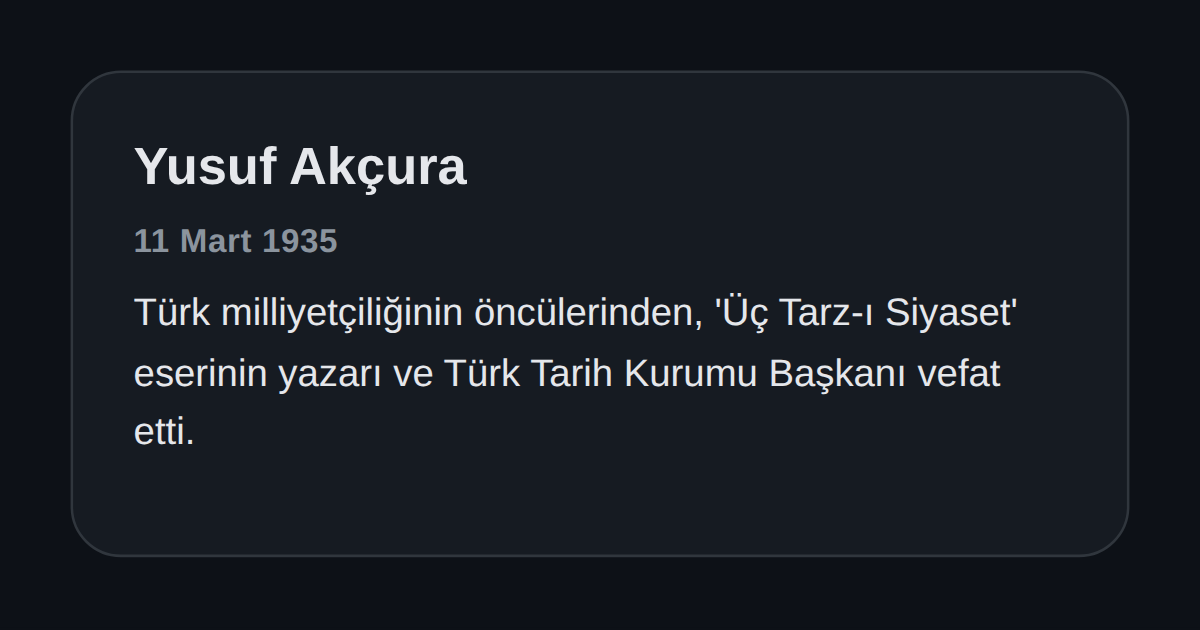
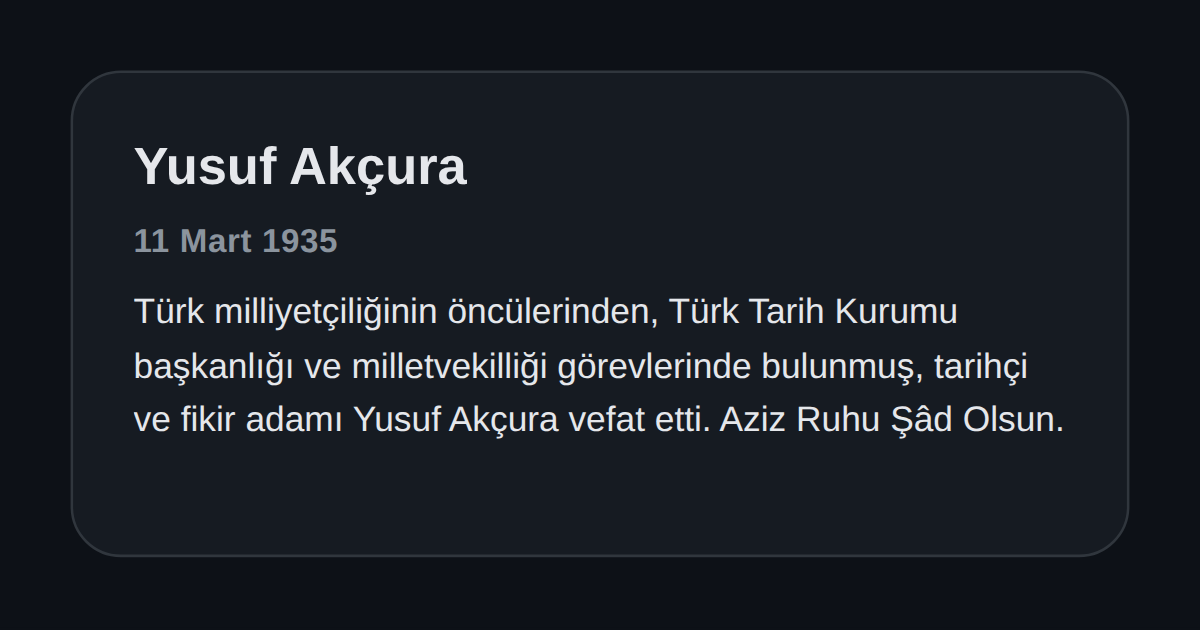
Generate milli takvim share files

Changed region(s): [[0.0925, 0.4524, 0.8942, 0.7238]]

diff --git a/blog/docs/milli-takvim/paylas/01-30-2016-sehit-selcuk-paker.html b/blog/docs/milli-takvim/paylas/01-30-2016-sehit-selcuk-paker.html
@@ -3,30 +3,30 @@
 <head>
 <meta charset="UTF-8">
 <meta name="viewport" content="width=device-width, initial-scale=1.0">
-<title>Şehit Uzman Çavuş Selçuk Paker (30 Ocak 2016) | Milli Takvim</title>
+<title>Şehit Selçuk Paker (30 Ocak 2016) | Milli Takvim</title>
 <meta name="description" content="Diyarbakır&#39;ın Sur ilçesinde bölücü terör örgütü PKK&#39;ya yönelik yürütülen operasyon sırasında çıkan çatışmada şehit düşen kahraman Bordo Bereli askerimiz Jandarma Uzman Çavuş Selçuk Paker. Aziz Ruhu…">
-<link rel="canonical" href="https://w01ki3.github.io/blog/docs/milli-takvim/paylas/01-30-2016-sehit-uzman-cavus-selcuk-paker.html">
+<link rel="canonical" href="https://w01ki3.github.io/blog/docs/milli-takvim/paylas/01-30-2016-sehit-selcuk-paker.html">
 <meta property="og:type" content="article">
 <meta property="og:site_name" content="Milli Takvim">
 <meta property="og:locale" content="tr_TR">
-<meta property="og:title" content="Şehit Uzman Çavuş Selçuk Paker (30 Ocak 2016)">
+<meta property="og:title" content="Şehit Selçuk Paker (30 Ocak 2016)">
 <meta property="og:description" content="Diyarbakır&#39;ın Sur ilçesinde bölücü terör örgütü PKK&#39;ya yönelik yürütülen operasyon sırasında çıkan çatışmada şehit düşen kahraman Bordo Bereli askerimiz Jandarma Uzman Çavuş Selçuk Paker. Aziz Ruhu…">
-<meta property="og:url" content="https://w01ki3.github.io/blog/docs/milli-takvim/paylas/01-30-2016-sehit-uzman-cavus-selcuk-paker.html">
-<meta property="og:image" content="https://w01ki3.github.io/blog/docs/milli-takvim/paylas/01-30-2016-sehit-uzman-cavus-selcuk-paker.png">
+<meta property="og:url" content="https://w01ki3.github.io/blog/docs/milli-takvim/paylas/01-30-2016-sehit-selcuk-paker.html">
+<meta property="og:image" content="https://w01ki3.github.io/blog/docs/milli-takvim/paylas/01-30-2016-sehit-selcuk-paker.png">
 <meta property="og:image:type" content="image/png">
 <meta property="og:image:width" content="1200">
 <meta property="og:image:height" content="628">
-<meta property="og:image:alt" content="Şehit Uzman Çavuş Selçuk Paker (30 Ocak 2016)">
+<meta property="og:image:alt" content="Şehit Selçuk Paker (30 Ocak 2016)">
 <meta name="twitter:card" content="summary_large_image">
-<meta name="twitter:title" content="Şehit Uzman Çavuş Selçuk Paker (30 Ocak 2016)">
+<meta name="twitter:title" content="Şehit Selçuk Paker (30 Ocak 2016)">
 <meta name="twitter:description" content="Diyarbakır&#39;ın Sur ilçesinde bölücü terör örgütü PKK&#39;ya yönelik yürütülen operasyon sırasında çıkan çatışmada şehit düşen kahraman Bordo Bereli askerimiz Jandarma Uzman Çavuş Selçuk Paker. Aziz Ruhu…">
-<meta name="twitter:image" content="https://w01ki3.github.io/blog/docs/milli-takvim/paylas/01-30-2016-sehit-uzman-cavus-selcuk-paker.png">
-<meta name="twitter:image:alt" content="Şehit Uzman Çavuş Selçuk Paker (30 Ocak 2016)">
+<meta name="twitter:image" content="https://w01ki3.github.io/blog/docs/milli-takvim/paylas/01-30-2016-sehit-selcuk-paker.png">
+<meta name="twitter:image:alt" content="Şehit Selçuk Paker (30 Ocak 2016)">
 <meta name="theme-color" content="#ff0000ff">
-<script>location.replace("../../../index.html#milli-takvim/01-30-2016-sehit-uzman-cavus-selcuk-paker");</script>
+<script>location.replace("../../../index.html#milli-takvim/01-30-2016-sehit-selcuk-paker");</script>
 </head>
 <body>
-<p>Anma · <strong>Şehit Uzman Çavuş Selçuk Paker (30 Ocak 2016)</strong></p>
-<p>Milli Takvim'e yönlendiriliyorsunuz… <a href="../../../index.html#milli-takvim/01-30-2016-sehit-uzman-cavus-selcuk-paker">Devam et</a></p>
+<p>Anma · <strong>Şehit Selçuk Paker (30 Ocak 2016)</strong></p>
+<p>Milli Takvim'e yönlendiriliyorsunuz… <a href="../../../index.html#milli-takvim/01-30-2016-sehit-selcuk-paker">Devam et</a></p>
 </body>
 </html>

diff --git a/blog/docs/milli-takvim/paylas/03-09-2016-hendek-operasyonlari-sehitleri.html b/blog/docs/milli-takvim/paylas/03-09-2016-hendek-operasyonlari-sehitleri.html
@@ -4,13 +4,13 @@
 <meta charset="UTF-8">
 <meta name="viewport" content="width=device-width, initial-scale=1.0">
 <title>Hendek Operasyonları Şehitleri (9 Mart 2016) | Milli Takvim</title>
-<meta name="description" content="Doğu ve Güneydoğu&#39;da çukur/hendek barikatlarını temizleyerek vatan bütünlüğünü sağlayan kahraman güvenlik güçlerimizi anma günü... Bu operasyonlarda toplam 793 güvenlik personelimiz (asker, polis…">
+<meta name="description" content="Doğu ve Güneydoğu&#39;da çukur/hendek barikatlarını temizleyerek vatan bütünlüğünü sağlayan kahraman güvenlik güçlerimizi anıyoruz... Bu operasyonlarda toplam 793 güvenlik personelimiz (asker, polis…">
 <link rel="canonical" href="https://w01ki3.github.io/blog/docs/milli-takvim/paylas/03-09-2016-hendek-operasyonlari-sehitleri.html">
 <meta property="og:type" content="article">
 <meta property="og:site_name" content="Milli Takvim">
 <meta property="og:locale" content="tr_TR">
 <meta property="og:title" content="Hendek Operasyonları Şehitleri (9 Mart 2016)">
-<meta property="og:description" content="Doğu ve Güneydoğu&#39;da çukur/hendek barikatlarını temizleyerek vatan bütünlüğünü sağlayan kahraman güvenlik güçlerimizi anma günü... Bu operasyonlarda toplam 793 güvenlik personelimiz (asker, polis…">
+<meta property="og:description" content="Doğu ve Güneydoğu&#39;da çukur/hendek barikatlarını temizleyerek vatan bütünlüğünü sağlayan kahraman güvenlik güçlerimizi anıyoruz... Bu operasyonlarda toplam 793 güvenlik personelimiz (asker, polis…">
 <meta property="og:url" content="https://w01ki3.github.io/blog/docs/milli-takvim/paylas/03-09-2016-hendek-operasyonlari-sehitleri.html">
 <meta property="og:image" content="https://w01ki3.github.io/blog/docs/milli-takvim/paylas/03-09-2016-hendek-operasyonlari-sehitleri.png">
 <meta property="og:image:type" content="image/png">
@@ -19,7 +19,7 @@
 <meta property="og:image:alt" content="Hendek Operasyonları Şehitleri (9 Mart 2016)">
 <meta name="twitter:card" content="summary_large_image">
 <meta name="twitter:title" content="Hendek Operasyonları Şehitleri (9 Mart 2016)">
-<meta name="twitter:description" content="Doğu ve Güneydoğu&#39;da çukur/hendek barikatlarını temizleyerek vatan bütünlüğünü sağlayan kahraman güvenlik güçlerimizi anma günü... Bu operasyonlarda toplam 793 güvenlik personelimiz (asker, polis…">
+<meta name="twitter:description" content="Doğu ve Güneydoğu&#39;da çukur/hendek barikatlarını temizleyerek vatan bütünlüğünü sağlayan kahraman güvenlik güçlerimizi anıyoruz... Bu operasyonlarda toplam 793 güvenlik personelimiz (asker, polis…">
 <meta name="twitter:image" content="https://w01ki3.github.io/blog/docs/milli-takvim/paylas/03-09-2016-hendek-operasyonlari-sehitleri.png">
 <meta name="twitter:image:alt" content="Hendek Operasyonları Şehitleri (9 Mart 2016)">
 <meta name="theme-color" content="#ff0000ff">

diff --git a/blog/docs/milli-takvim/paylas/11-04-2021-sehit-sadik-aparangil-ve-sehit-caner-celik.html b/blog/docs/milli-takvim/paylas/11-04-2021-sehit-sadik-aparangil-ve-sehit-caner-celik.html
@@ -1,0 +1,32 @@
+<!DOCTYPE html>
+<html lang="tr">
+<head>
+<meta charset="UTF-8">
+<meta name="viewport" content="width=device-width, initial-scale=1.0">
+<title>Şehit Sadık Aparangil ve Şehit Caner Çelik (4 Kasım 2021) | Milli Takvim</title>
+<meta name="description" content="Hakkâri&#39;nin Yüksekova ilçesi kırsalında PKK bölücü terör örgütü mensuplarıyla çıkan çatışmada şehit düşen Piyade Uzman Çavuş Sadık Aparangil ve Piyade Uzman Çavuş Caner Çelik. Aziz Ruhları Şâd Olsun.">
+<link rel="canonical" href="https://w01ki3.github.io/blog/docs/milli-takvim/paylas/11-04-2021-sehit-sadik-aparangil-ve-sehit-caner-celik.html">
+<meta property="og:type" content="article">
+<meta property="og:site_name" content="Milli Takvim">
+<meta property="og:locale" content="tr_TR">
+<meta property="og:title" content="Şehit Sadık Aparangil ve Şehit Caner Çelik (4 Kasım 2021)">
+<meta property="og:description" content="Hakkâri&#39;nin Yüksekova ilçesi kırsalında PKK bölücü terör örgütü mensuplarıyla çıkan çatışmada şehit düşen Piyade Uzman Çavuş Sadık Aparangil ve Piyade Uzman Çavuş Caner Çelik. Aziz Ruhları Şâd Olsun.">
+<meta property="og:url" content="https://w01ki3.github.io/blog/docs/milli-takvim/paylas/11-04-2021-sehit-sadik-aparangil-ve-sehit-caner-celik.html">
+<meta property="og:image" content="https://w01ki3.github.io/blog/docs/milli-takvim/paylas/11-04-2021-sehit-sadik-aparangil-ve-sehit-caner-celik.png">
+<meta property="og:image:type" content="image/png">
+<meta property="og:image:width" content="1200">
+<meta property="og:image:height" content="628">
+<meta property="og:image:alt" content="Şehit Sadık Aparangil ve Şehit Caner Çelik (4 Kasım 2021)">
+<meta name="twitter:card" content="summary_large_image">
+<meta name="twitter:title" content="Şehit Sadık Aparangil ve Şehit Caner Çelik (4 Kasım 2021)">
+<meta name="twitter:description" content="Hakkâri&#39;nin Yüksekova ilçesi kırsalında PKK bölücü terör örgütü mensuplarıyla çıkan çatışmada şehit düşen Piyade Uzman Çavuş Sadık Aparangil ve Piyade Uzman Çavuş Caner Çelik. Aziz Ruhları Şâd Olsun.">
+<meta name="twitter:image" content="https://w01ki3.github.io/blog/docs/milli-takvim/paylas/11-04-2021-sehit-sadik-aparangil-ve-sehit-caner-celik.png">
+<meta name="twitter:image:alt" content="Şehit Sadık Aparangil ve Şehit Caner Çelik (4 Kasım 2021)">
+<meta name="theme-color" content="#ff0000ff">
+<script>location.replace("../../../index.html#milli-takvim/11-04-2021-sehit-sadik-aparangil-ve-sehit-caner-celik");</script>
+</head>
+<body>
+<p>Anma · <strong>Şehit Sadık Aparangil ve Şehit Caner Çelik (4 Kasım 2021)</strong></p>
+<p>Milli Takvim'e yönlendiriliyorsunuz… <a href="../../../index.html#milli-takvim/11-04-2021-sehit-sadik-aparangil-ve-sehit-caner-celik">Devam et</a></p>
+</body>
+</html>

diff --git a/blog/docs/milli-takvim/paylas/01-23-2025-sehit-ufuk-akinci.html b/blog/docs/milli-takvim/paylas/01-23-2025-sehit-ufuk-akinci.html
@@ -1,0 +1,32 @@
+<!DOCTYPE html>
+<html lang="tr">
+<head>
+<meta charset="UTF-8">
+<meta name="viewport" content="width=device-width, initial-scale=1.0">
+<title>Şehit Ufuk Akıncı (23 Ocak 2025) | Milli Takvim</title>
+<meta name="description" content="Pençe-Kaplan Operasyonu bölgesinde bölücü terör örgütü PKK saldırısı sonucu yaralanarak kaldırıldığı hastanede 23 Ocak 2025 tarihinde şehit düşen kahraman askerimiz İstihkâm Astsubay Üstçavuş Ufuk…">
+<link rel="canonical" href="https://w01ki3.github.io/blog/docs/milli-takvim/paylas/01-23-2025-sehit-ufuk-akinci.html">
+<meta property="og:type" content="article">
+<meta property="og:site_name" content="Milli Takvim">
+<meta property="og:locale" content="tr_TR">
+<meta property="og:title" content="Şehit Ufuk Akıncı (23 Ocak 2025)">
+<meta property="og:description" content="Pençe-Kaplan Operasyonu bölgesinde bölücü terör örgütü PKK saldırısı sonucu yaralanarak kaldırıldığı hastanede 23 Ocak 2025 tarihinde şehit düşen kahraman askerimiz İstihkâm Astsubay Üstçavuş Ufuk…">
+<meta property="og:url" content="https://w01ki3.github.io/blog/docs/milli-takvim/paylas/01-23-2025-sehit-ufuk-akinci.html">
+<meta property="og:image" content="https://w01ki3.github.io/blog/docs/milli-takvim/paylas/01-23-2025-sehit-ufuk-akinci.png">
+<meta property="og:image:type" content="image/png">
+<meta property="og:image:width" content="1200">
+<meta property="og:image:height" content="628">
+<meta property="og:image:alt" content="Şehit Ufuk Akıncı (23 Ocak 2025)">
+<meta name="twitter:card" content="summary_large_image">
+<meta name="twitter:title" content="Şehit Ufuk Akıncı (23 Ocak 2025)">
+<meta name="twitter:description" content="Pençe-Kaplan Operasyonu bölgesinde bölücü terör örgütü PKK saldırısı sonucu yaralanarak kaldırıldığı hastanede 23 Ocak 2025 tarihinde şehit düşen kahraman askerimiz İstihkâm Astsubay Üstçavuş Ufuk…">
+<meta name="twitter:image" content="https://w01ki3.github.io/blog/docs/milli-takvim/paylas/01-23-2025-sehit-ufuk-akinci.png">
+<meta name="twitter:image:alt" content="Şehit Ufuk Akıncı (23 Ocak 2025)">
+<meta name="theme-color" content="#ff0000ff">
+<script>location.replace("../../../index.html#milli-takvim/01-23-2025-sehit-ufuk-akinci");</script>
+</head>
+<body>
+<p>Anma · <strong>Şehit Ufuk Akıncı (23 Ocak 2025)</strong></p>
+<p>Milli Takvim'e yönlendiriliyorsunuz… <a href="../../../index.html#milli-takvim/01-23-2025-sehit-ufuk-akinci">Devam et</a></p>
+</body>
+</html>

diff --git a/blog/docs/milli-takvim/paylas/03-11-1935-yusuf-akcura.html b/blog/docs/milli-takvim/paylas/03-11-1935-yusuf-akcura.html
@@ -4,13 +4,13 @@
 <meta charset="UTF-8">
 <meta name="viewport" content="width=device-width, initial-scale=1.0">
 <title>Yusuf Akçura (11 Mart 1935) | Milli Takvim</title>
-<meta name="description" content="Türk milliyetçiliğinin öncülerinden, &#39;Üç Tarz-ı Siyaset&#39; eserinin yazarı ve Türk Tarih Kurumu Başkanı vefat etti.">
+<meta name="description" content="Türk milliyetçiliğinin öncülerinden, Türk Tarih Kurumu başkanlığı ve milletvekilliği görevlerinde bulunmuş, tarihçi ve fikir adamı Yusuf Akçura vefat etti. Aziz Ruhu Şâd Olsun.">
 <link rel="canonical" href="https://w01ki3.github.io/blog/docs/milli-takvim/paylas/03-11-1935-yusuf-akcura.html">
 <meta property="og:type" content="article">
 <meta property="og:site_name" content="Milli Takvim">
 <meta property="og:locale" content="tr_TR">
 <meta property="og:title" content="Yusuf Akçura (11 Mart 1935)">
-<meta property="og:description" content="Türk milliyetçiliğinin öncülerinden, &#39;Üç Tarz-ı Siyaset&#39; eserinin yazarı ve Türk Tarih Kurumu Başkanı vefat etti.">
+<meta property="og:description" content="Türk milliyetçiliğinin öncülerinden, Türk Tarih Kurumu başkanlığı ve milletvekilliği görevlerinde bulunmuş, tarihçi ve fikir adamı Yusuf Akçura vefat etti. Aziz Ruhu Şâd Olsun.">
 <meta property="og:url" content="https://w01ki3.github.io/blog/docs/milli-takvim/paylas/03-11-1935-yusuf-akcura.html">
 <meta property="og:image" content="https://w01ki3.github.io/blog/docs/milli-takvim/paylas/03-11-1935-yusuf-akcura.png">
 <meta property="og:image:type" content="image/png">
@@ -19,7 +19,7 @@
 <meta property="og:image:alt" content="Yusuf Akçura (11 Mart 1935)">
 <meta name="twitter:card" content="summary_large_image">
 <meta name="twitter:title" content="Yusuf Akçura (11 Mart 1935)">
-<meta name="twitter:description" content="Türk milliyetçiliğinin öncülerinden, &#39;Üç Tarz-ı Siyaset&#39; eserinin yazarı ve Türk Tarih Kurumu Başkanı vefat etti.">
+<meta name="twitter:description" content="Türk milliyetçiliğinin öncülerinden, Türk Tarih Kurumu başkanlığı ve milletvekilliği görevlerinde bulunmuş, tarihçi ve fikir adamı Yusuf Akçura vefat etti. Aziz Ruhu Şâd Olsun.">
 <meta name="twitter:image" content="https://w01ki3.github.io/blog/docs/milli-takvim/paylas/03-11-1935-yusuf-akcura.png">
 <meta name="twitter:image:alt" content="Yusuf Akçura (11 Mart 1935)">
 <meta name="theme-color" content="#ff0000ff">
